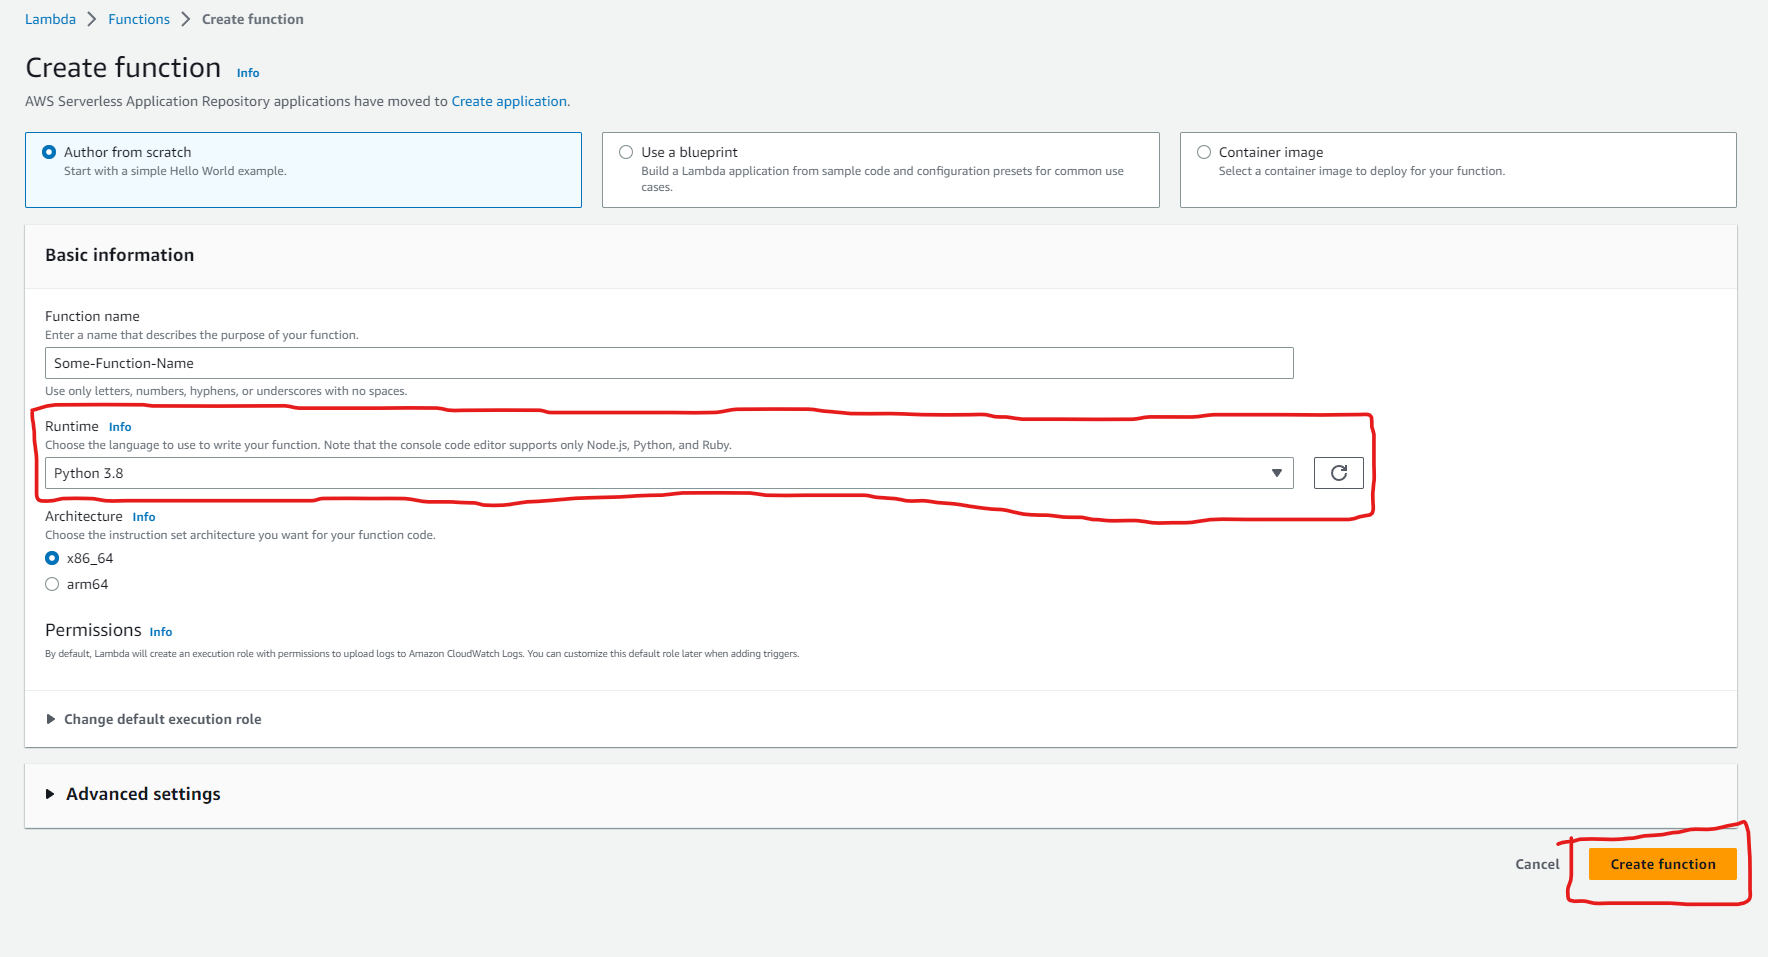
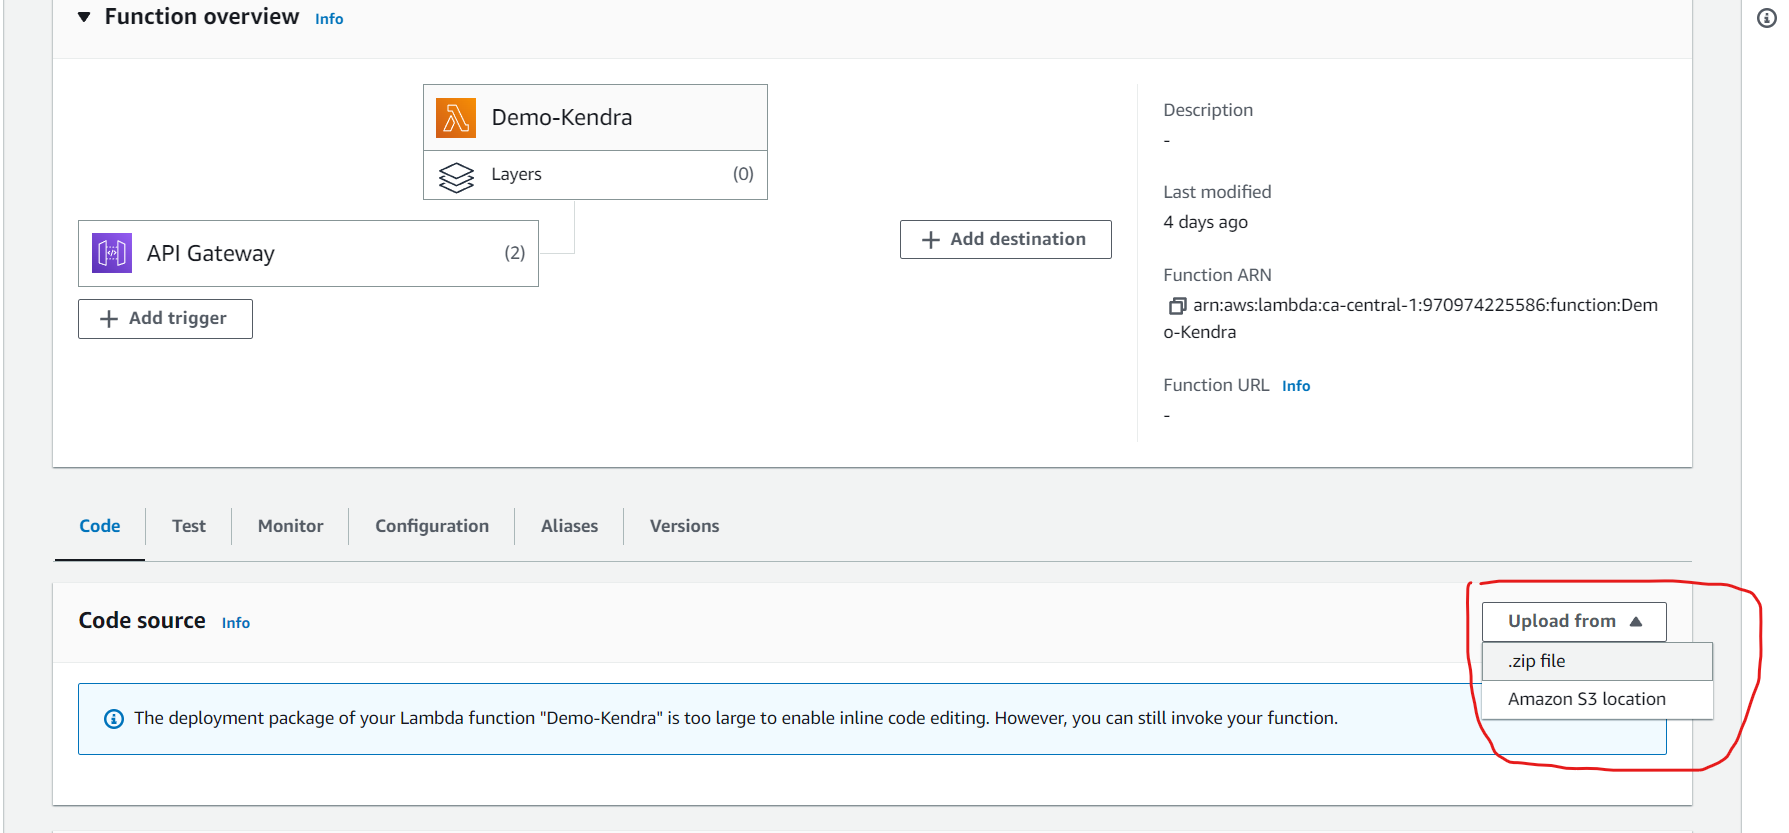
Added documentation
- Added screenshots & instruction in setting up an API endpoint & lambda functions for Kendra integration

diff --git a/geekweek_docs/kendra/README.md b/geekweek_docs/kendra/README.md
@@ -85,16 +85,75 @@ To index and sync your vector data from S3 to Kendra, follow these steps:
 
 ### 2. Connecting To Kendra
 
-#### 2.1 Create AWS Lambda function
+To connect to your Kendra index and query your vector data, you need to create an API endpoint and a Lambda function.
 
-#### 2.2 Getting info from Kendra using Boto3
+#### 2.1 Create AWS Lambda Function
 
-#### 2.3 Create an API endpoint
- - Create AWS API Endpoint
- - Link to Lambda function to get
+A Lambda function is a serverless function that can execute your code in response to an event, such as an API request. To create a Lambda function for querying Kendra, follow these steps:
 
-#### 2.4 Accessing API endpoint
- - Simple HTTP request
+- Go to the [Lambda console](https://console.aws.amazon.com/lambda/) and click **Create function**.
+
+![Create function button](/geekweek_docs/kendra/22.png)
+
+- Choose **Author from scratch**, enter a name for your function, and select **Python 3.8** as the runtime. Click **Create function**.
+
+![Function settings](/geekweek_docs/kendra/36.png)
+
+- On your local machine, create a folder for your Lambda function and install `boto3` in it using `pip install boto3 -t .`. This is because Amazon's Lambda function does not use the latest version of `boto3`, which is the AWS SDK for Python.
+- In the same folder, create a file named `lambda_function.py` and write a function named `lambda_handler` that will handle requests for queries on the Kendra index. You can use the file `tools\kendra\lambda_function.py` as a reference on what needs to be done.
+- Zip the folder and upload it to your Lambda function using the **Upload from** option.
+
+![Upload zip file](/geekweek_docs/kendra/23.png)
+
+- Go to the **Configuration** tab of your Lambda function and select **Permissions**. Click on the role name under **Execution role**. This will take you to the IAM console where you can add permissions for your Lambda function to access Kendra.
+
+![Execution role](/geekweek_docs/kendra/25.png)
+
+- In the IAM console, click **Attach policies** and search for Kendra in the filter. Select `AmazonKendraFullAccess` and click **Attach policy**. Note: It is unknown if `AmazonKendraReadOnlyAccess` would work, but if it does, it might be a better permission.
+
+![Attach policy](/geekweek_docs/kendra/27.png)
+
+#### 2.3 Create an API Endpoint
+
+An API endpoint is a URL that allows you to interact with your Lambda function over the internet. To create an API endpoint for your Lambda function, follow these steps:
+
+- Go to the [API Gateway console](https://console.aws.amazon.com/apigateway/) and click **Create API**.
+
+![Create API button](/geekweek_docs/kendra/29.png)
+
+- Choose **REST API** and click **Build**.
+
+![REST API option](/geekweek_docs/kendra/30.png)
+
+- Enter a name for your API and click **Create API**.
+
+![API name](/geekweek_docs/kendra/31.png)
+
+- Under **Resources**, select **/** and click **Actions**. Then select **Create Method** and choose **GET** from the dropdown menu.
+
+![Create method](/geekweek_docs/kendra/32.png)
+
+- Under **Integration type**, select **Lambda Function** and enter the name of your Lambda function. Click **Save**.
+
+![Integration settings](/geekweek_docs/kendra/32.png)
+
+- Click **Actions** again and select **Deploy API**.
+
+![Deploy API](/geekweek_docs/kendra/33.png)
+
+- Choose **[New Stage]** from the dropdown menu, enter a name for your stage, and click **Deploy**.
+
+![Stage settings](/geekweek_docs/kendra/34.png)
+
+#### 2.4 Accessing API Endpoint
+
+To access your API endpoint and query your Kendra index, follow these steps:
+
+- Go to the **Stages** tab of your API and select your stage name.
+
+![Stages tab](/geekweek_docs/kendra/35.png)
+
+- Copy the **Invoke URL** from the top of the page. This is the URL of your API endpoint.
 
 ### 3. LLM Integration
 
